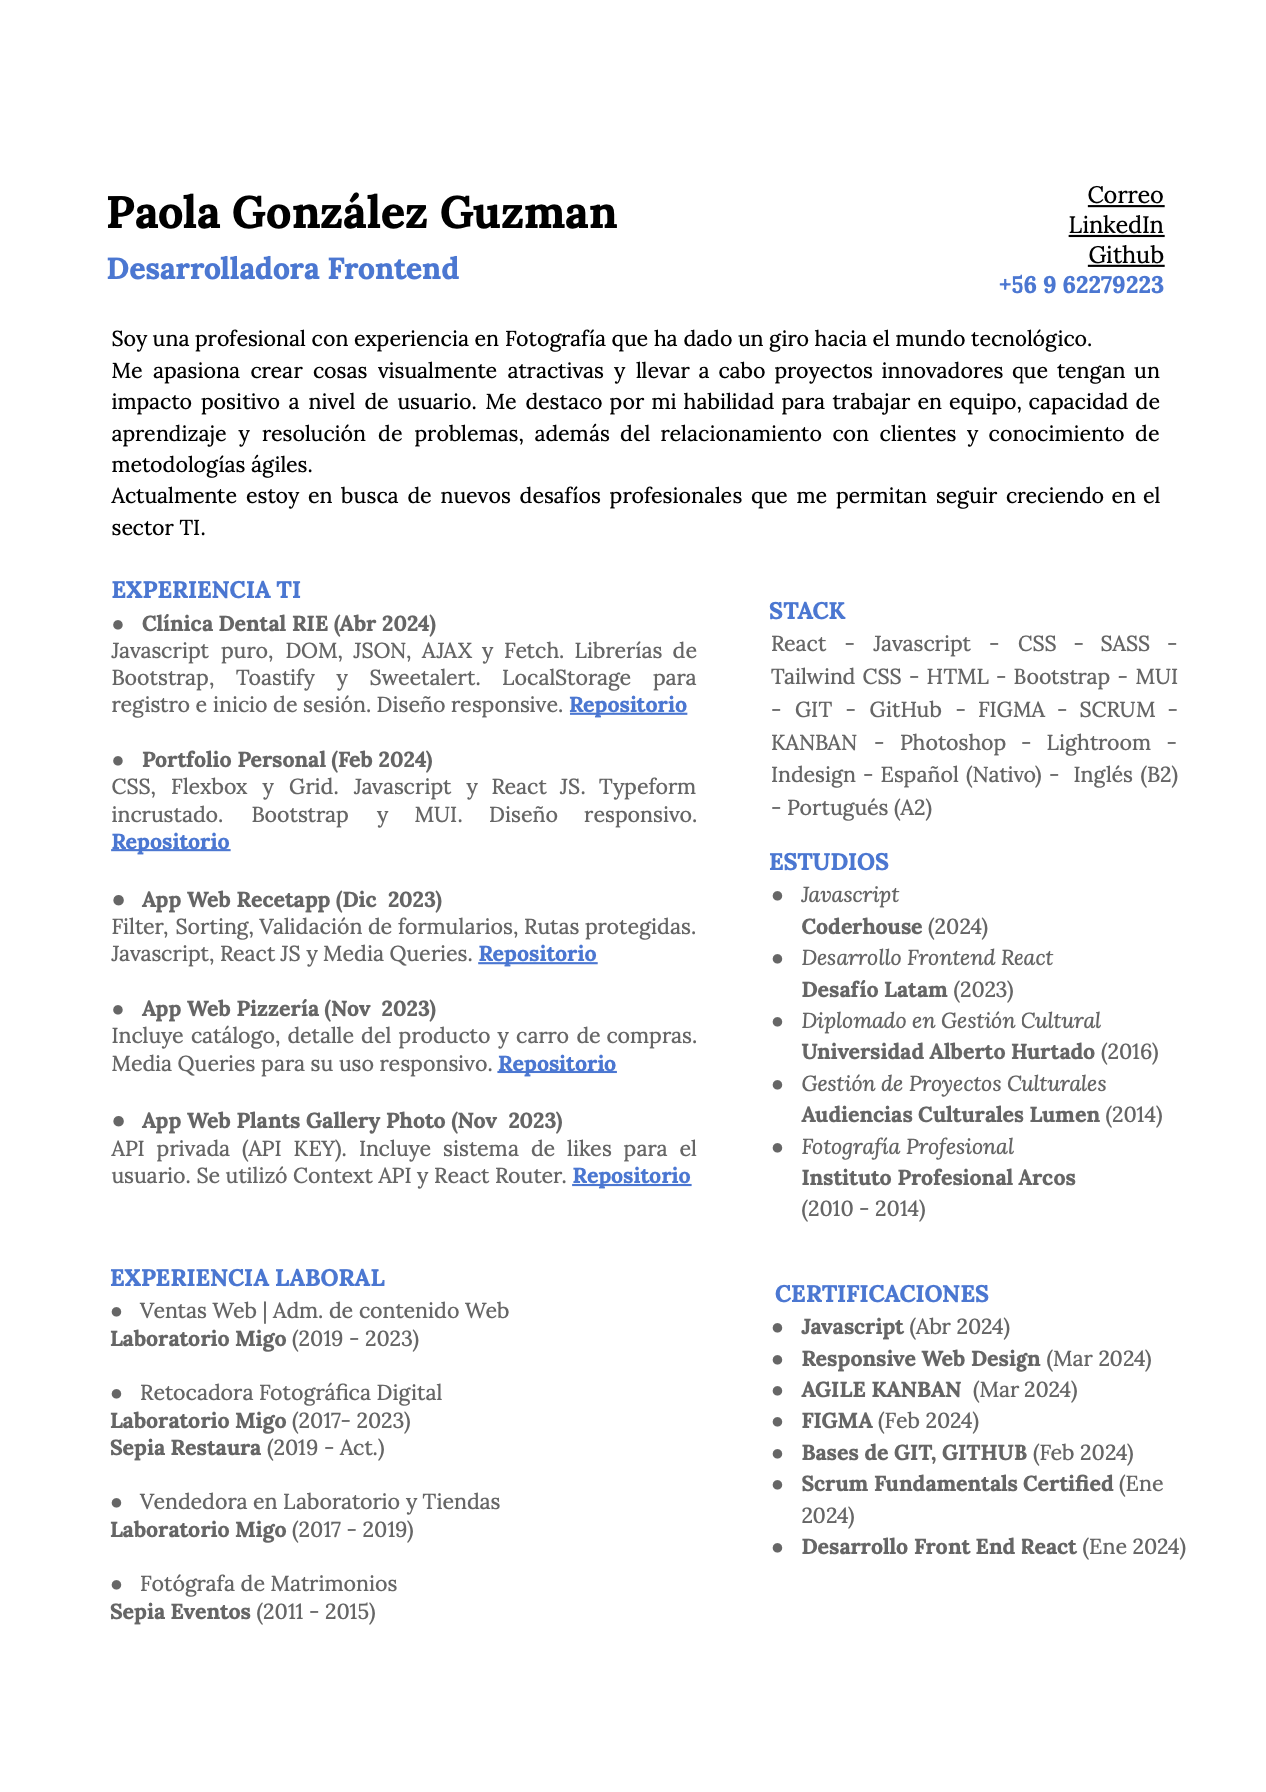
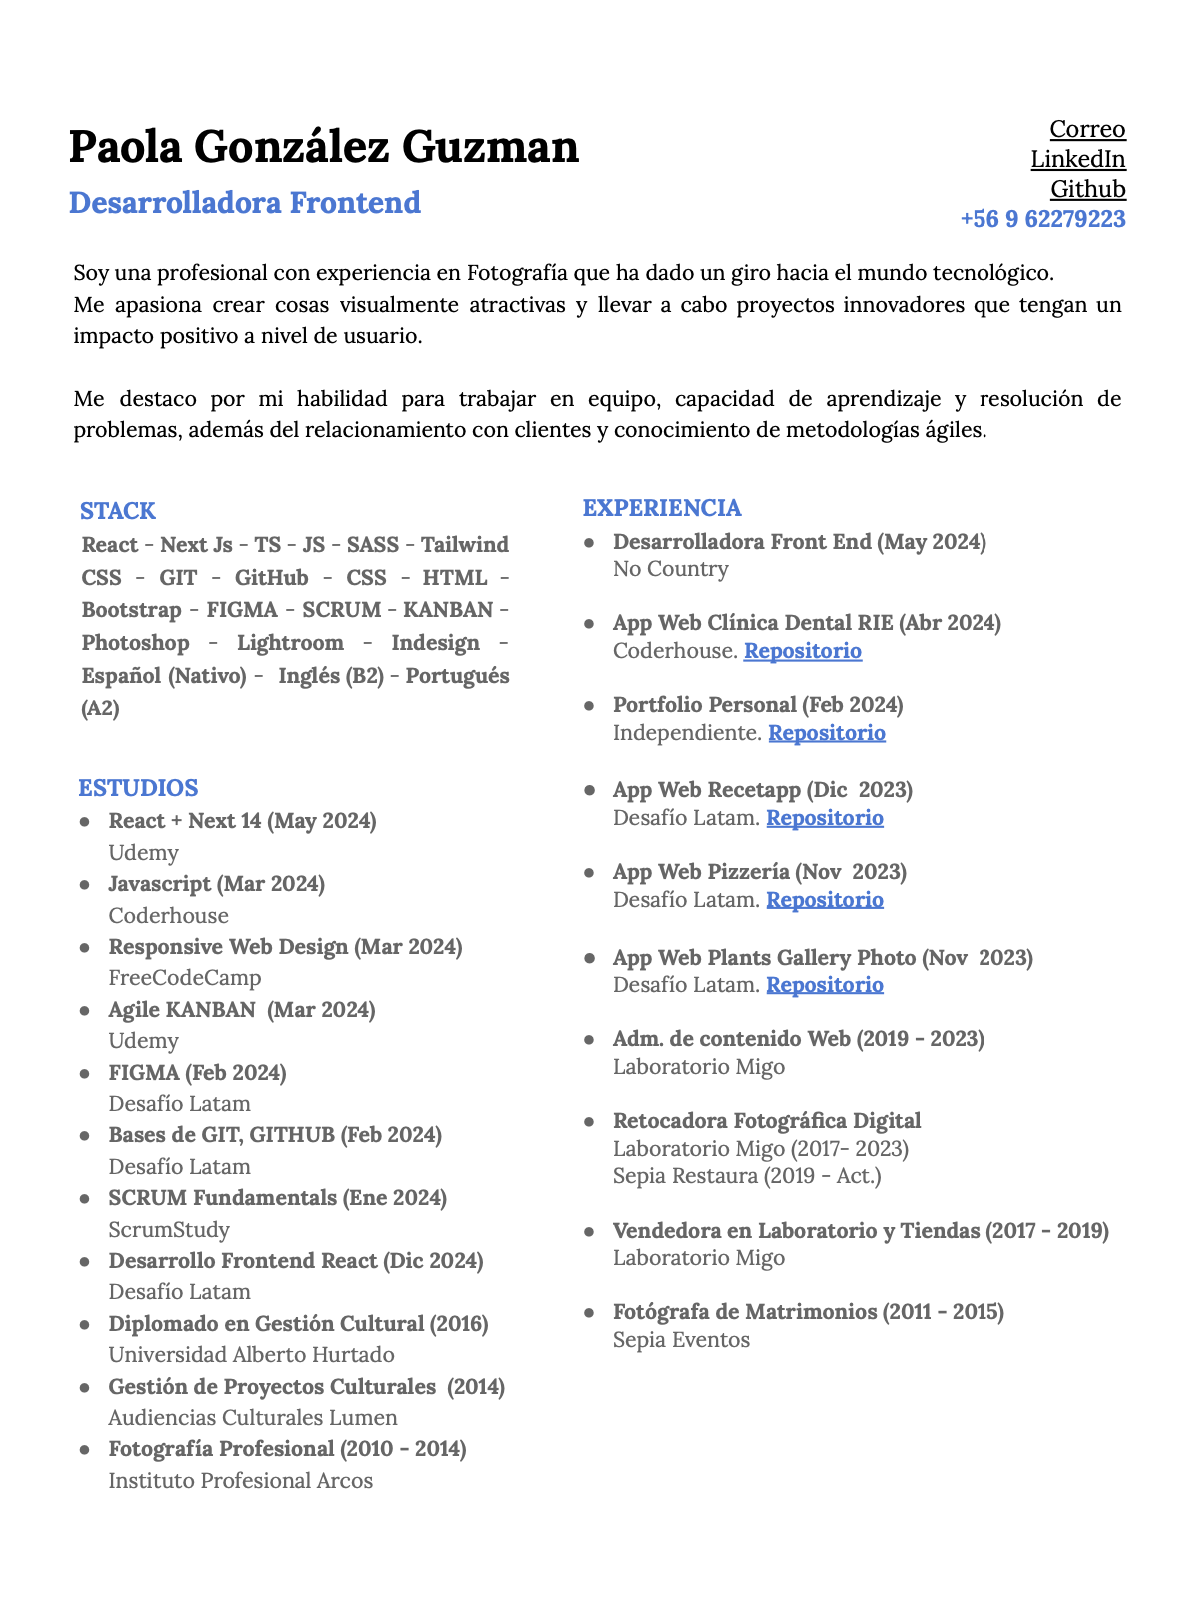
last commit

Changed region(s): [[0.0622, 0.0617, 0.9639, 0.9248], [0.8084, 0.8631, 0.8395, 0.894]]

diff --git a/src/components/Home.jsx b/src/components/Home.jsx
@@ -23,10 +23,13 @@ const Home = () => {
     //sección estudios
     const [showMore, setShowMore] = useState({
         javascript: false,
+        responsive: false,
+        next: false,
         react: false,
-        diplomado: false,
-        gestionProyectos: false,
-        fotografia: false,
+        kanban: false,
+        scrum: false,
+        figma: false,
+        git: false,
     });
 
     const toggleShowMore = (id) => {
@@ -49,7 +52,7 @@ const Home = () => {
                     <a href="mailto:paolagonzalez.contacto@gmail.com" target="_blank" rel="noopener noreferrer">
                         <GoogleIcon sx={{ fontSize: 30, color: "#ffbd59", filter: "drop-shadow(0 0 15px #ffbd59)" }} />
                     </a>
-                    <a href="https://drive.google.com/file/d/1Lz9it9hxIl20itqPega0Tk821ZHMZQKH/view?usp=drive_link" target="_blank" rel="noopener noreferrer">
+                    <a href="https://drive.google.com/file/d/1QwBFIWGGQGgibayLczp69Q0_O9YjuXpW/view?usp=sharing" target="_blank" rel="noopener noreferrer">
                         <DescriptionIcon sx={{ fontSize: 30, color: "#ffbd59", filter: "drop-shadow(0 0 15px #ffbd59)" }} />
                     </a>
                 </div>
@@ -97,7 +100,7 @@ const Home = () => {
                                 </a>
 
                                 <a
-                                    href="https://drive.google.com/file/d/1Lz9it9hxIl20itqPega0Tk821ZHMZQKH/view?usp=drive_link"
+                                    href="https://drive.google.com/file/d/1QwBFIWGGQGgibayLczp69Q0_O9YjuXpW/view?usp=sharing"
                                     target="_blank"
                                     rel="noopener noreferrer"
                                 >
@@ -155,6 +158,24 @@ const Home = () => {
                         <section ref={studiesRef} className="box-studies">
                             <h1 className="title">Estudios</h1>
 
+                            <h3 className="name">React + Next JS 14</h3>
+                            <div className="info-2">
+                                <p className="date">Udemy (2024)</p>
+                            </div>
+
+                            {showMore.next ? (
+                                <>
+                                    <p className="info">Uso de React y Next JS para crear SPA, SSG y SSR con Login, React Hooks, Context API & Firebase.</p>
+                                    <button className="btn-more" onClick={() => toggleShowMore("next")}>
+                                        Menos info
+                                    </button>
+                                </>
+                            ) : (
+                                <button className="btn-more" onClick={() => toggleShowMore("next")}>
+                                    Más info
+                                </button>
+                            )}
+
                             <h3 className="name">JAVASCRIPT</h3>
                             <div className="info-2">
                                 <p className="date">Coderhouse (2024)</p>
@@ -175,10 +196,111 @@ const Home = () => {
                                     Más info
                                 </button>
                             )}
-
-                            <h3 className="name">DESARROLLO FRONTEND REACT</h3>
+                            <h3 className="name">Responsive Web Design</h3>
                             <div className="info-2">
-                                <p className="date">Desafío Latam (2023)</p>
+                                <p className="date">FreeCodeCamp (2024)</p>
+                            </div>
+
+                            {showMore.responsive ? (
+                                <>
+                                    <p className="info">
+                                        Alrededor de 300 ejercicios que incluyen conceptos básicos de HTML y CSS. Variables de CSS y las mejores prácticas de
+                                        accesibilidad mediante la creación de cuestionarios. Además de creaciones web de diferentes tamaños de pantalla creando
+                                        una galería de fotos con Flexbox y un diseño de artículo de revista con CSS Grid.
+                                    </p>
+                                    <button className="btn-more" onClick={() => toggleShowMore("responsive")}>
+                                        Menos info
+                                    </button>
+                                </>
+                            ) : (
+                                <button className="btn-more" onClick={() => toggleShowMore("responsive")}>
+                                    Más info
+                                </button>
+                            )}
+                            <h3 className="name">Agile Kanban for Software Development Teams</h3>
+                            <div className="info-2">
+                                <p className="date">Udemy (2024)</p>
+                            </div>
+
+                            {showMore.kanban ? (
+                                <>
+                                    <p className="info">
+                                        Contenidos: Principios de Kanban, Diferencias entre Kanban y Extreme Programming, Tablero de Kanban, Definición de Done,
+                                        Stand-up diario, Reglas en Kanban.
+                                    </p>
+                                    <button className="btn-more" onClick={() => toggleShowMore("kanban")}>
+                                        Menos info
+                                    </button>
+                                </>
+                            ) : (
+                                <button className="btn-more" onClick={() => toggleShowMore("kanban")}>
+                                    Más info
+                                </button>
+                            )}
+
+                            <h3 className="name">Figma</h3>
+                            <div className="info-2">
+                                <p className="date">Desafío Latam (2024)</p>
+                            </div>
+
+                            {showMore.figma ? (
+                                <>
+                                    <p className="info">
+                                        Taller online de la academia que tiene por objetivo dar a conocer las funcionalidades básicas que permite Figma para la
+                                        creación de interfaces digitales. Contenidos: Prototipos de interfaces de usuario, Automatización de interfaces de
+                                        usuario, UI, Diseño de la interfaz de usuario, Diseño de experiencia de usuario (UX).
+                                    </p>
+                                    <button className="btn-more" onClick={() => toggleShowMore("figma")}>
+                                        Menos info
+                                    </button>
+                                </>
+                            ) : (
+                                <button className="btn-more" onClick={() => toggleShowMore("figma")}>
+                                    Más info
+                                </button>
+                            )}
+
+                            <h3 className="name">Bases de GIT, GitHub</h3>
+                            <div className="info-2">
+                                <p className="date">Desafío Latam (2024)</p>
+                            </div>
+
+                            {showMore.git ? (
+                                <>
+                                    <p className="info">Contenidos: Terminal, Git, GitHub, GitHub Pages y Trabajo Colaborativo.</p>
+                                    <button className="btn-more" onClick={() => toggleShowMore("git")}>
+                                        Menos info
+                                    </button>
+                                </>
+                            ) : (
+                                <button className="btn-more" onClick={() => toggleShowMore("git")}>
+                                    Más info
+                                </button>
+                            )}
+                            <h3 className="name">Scrum Fundamentals Certified</h3>
+                            <div className="info-2">
+                                <p className="date">ScrumStudy(2024)</p>
+                            </div>
+
+                            {showMore.scrum ? (
+                                <>
+                                    <p className="info">
+                                        Curso online que incluye examen de aprobación de 40 preguntas basadas en los conceptos claves sobre el marco Scrum,
+                                        vistos en la Guía SBOK®
+                                    </p>
+                                    <button className="btn-more" onClick={() => toggleShowMore("scrum")}>
+                                        Menos info
+                                    </button>
+                                </>
+                            ) : (
+                                <button className="btn-more" onClick={() => toggleShowMore("scrum")}>
+                                    Más info
+                                </button>
+                            )}
+
+                            <h3 className="name">DESARROLLO FRONT END REACT</h3>
+                            <div className="info-2">
+                                <p className="date">Desafío Latam (2024)</p>
                             </div>
 
                             {showMore.react ? (
@@ -198,75 +320,6 @@ const Home = () => {
                                     Más info
                                 </button>
                             )}
-
-                            <div>
-                                <h3 className="name">DIPLOMADO GESTIÓN CULTURAL</h3>
-                                <div className="info-2">
-                                    <p className="date">Universidad Alberto Hurtado (2016)</p>
-                                </div>
-                                {showMore.diplomado ? (
-                                    <>
-                                        <p className="info">
-                                            Como objetivo, la creación de proyectos culturales tanto en el sector público como en el privado.
-                                        </p>
-                                        <button className="btn-more" onClick={() => toggleShowMore("diplomado")}>
-                                            Menos info
-                                        </button>
-                                    </>
-                                ) : (
-                                    <button className="btn-more" onClick={() => toggleShowMore("diplomado")}>
-                                        Más info
-                                    </button>
-                                )}
-                            </div>
-
-                            <div>
-                                <h3 className="name">GESTIÓN PROYECTOS CULTURALES</h3>
-
-                                <div className="info-2">
-                                    <p className="date">Escuela Cultural Lumen (2014)</p>
-                                </div>
-                                {showMore.gestionProyectos ? (
-                                    <>
-                                        <p className="info">
-                                            Basado en los diseños, gestiones y evaluaciones de proyectos culturales, las estrategias de planificación y gestión
-                                            para proyectos individuales. Las alternativas de financiamiento, públicas y privadas existentes a nivel nacional en
-                                            los ámbitos de la cultura.
-                                        </p>
-                                        <button className="btn-more" onClick={() => toggleShowMore("gestionProyectos")}>
-                                            Menos info
-                                        </button>
-                                    </>
-                                ) : (
-                                    <button className="btn-more" onClick={() => toggleShowMore("gestionProyectos")}>
-                                        Más info
-                                    </button>
-                                )}
-                            </div>
-
-                            <div>
-                                <h3 className="name">FOTOGRAFÍA PROFESIONAL</h3>
-
-                                <div className="info-2">
-                                    <p className="date">Instituto Profesional Arcos (2010)</p>
-                                </div>
-                                {showMore.fotografia ? (
-                                    <>
-                                        <p className="info">
-                                            Compuesto por ramos como: Fotografía Digital, Fotografía Análoga (Copiado Fino), Post Producción Digital,
-                                            Composición Visual, Filosofía e Historia del Arte, Expresión corporal, Moda, Publicidad, Técnicas de retrato y
-                                            creación de Proyectos Fotográficos.
-                                        </p>
-                                        <button className="btn-more" onClick={() => toggleShowMore("fotografia")}>
-                                            Menos info
-                                        </button>
-                                    </>
-                                ) : (
-                                    <button className="btn-more" onClick={() => toggleShowMore("fotografia")}>
-                                        Más info
-                                    </button>
-                                )}
-                            </div>
                         </section>
                     </div>
                     <div>

diff --git a/src/views/Cv.jsx b/src/views/Cv.jsx
@@ -1,16 +1,24 @@
 import "../assets/css/Cv.css";
+import React, { useEffect } from "react";
 import Footer from "../components/Footer";
 import { Link } from "react-router-dom";
 import ArrowLeftIcon from "@mui/icons-material/ArrowLeft";
+import { animateScroll as scroll } from "react-scroll";
 
 const Cv = () => {
     const handleDownloadClick = () => {
-        window.open("https://drive.google.com/file/d/16rGx6egdhNYgrPZI_piRylShU592p9Ib/view?usp=sharing", "_blank");
+        window.open("https://drive.google.com/file/d/1XYwHE7OOE8FZN9tsWXc6P0LwaJOqj9p5/view?usp=sharing", "_blank");
     };
 
     const handleDownloadClickPdf = () => {
-        window.open("https://drive.google.com/file/d/1Lz9it9hxIl20itqPega0Tk821ZHMZQKH/view?usp=drive_link", "_blank");
+        window.open("https://drive.google.com/file/d/1QwBFIWGGQGgibayLczp69Q0_O9YjuXpW/view?usp=sharing", "_blank");
     };
+    useEffect(() => {
+        scroll.scrollToTop({
+            duration: 500,
+            smooth: "easeInOutQuad",
+        });
+    }, []);
 
     return (
         <>

diff --git a/src/views/FormContact.jsx b/src/views/FormContact.jsx
@@ -1,9 +1,17 @@
 import "../assets/css/FormContact.css";
+import React, { useContext, useEffect } from "react";
 import { Link } from "react-router-dom";
 import Footer from "../components/Footer";
 import ArrowLeftIcon from "@mui/icons-material/ArrowLeft";
+import { animateScroll as scroll } from "react-scroll";
 
 function FormContact() {
+    useEffect(() => {
+        scroll.scrollToTop({
+            duration: 500,
+            smooth: "easeInOutQuad",
+        });
+    }, []);
     return (
         <>
             <h1 className="title-form">Contacto </h1>
